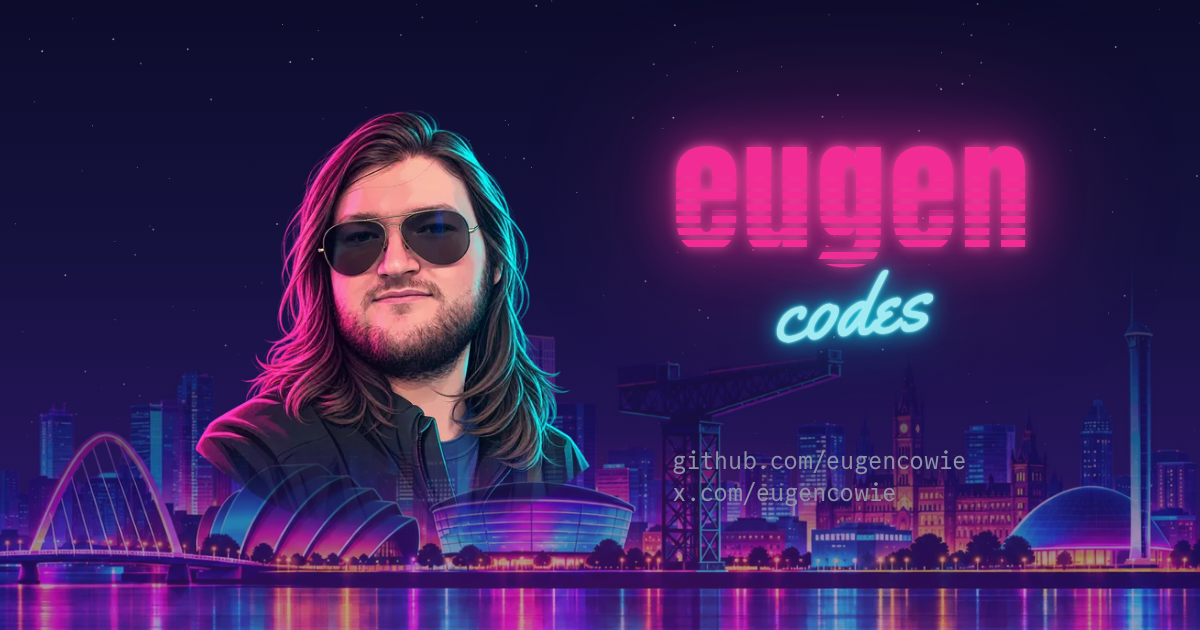
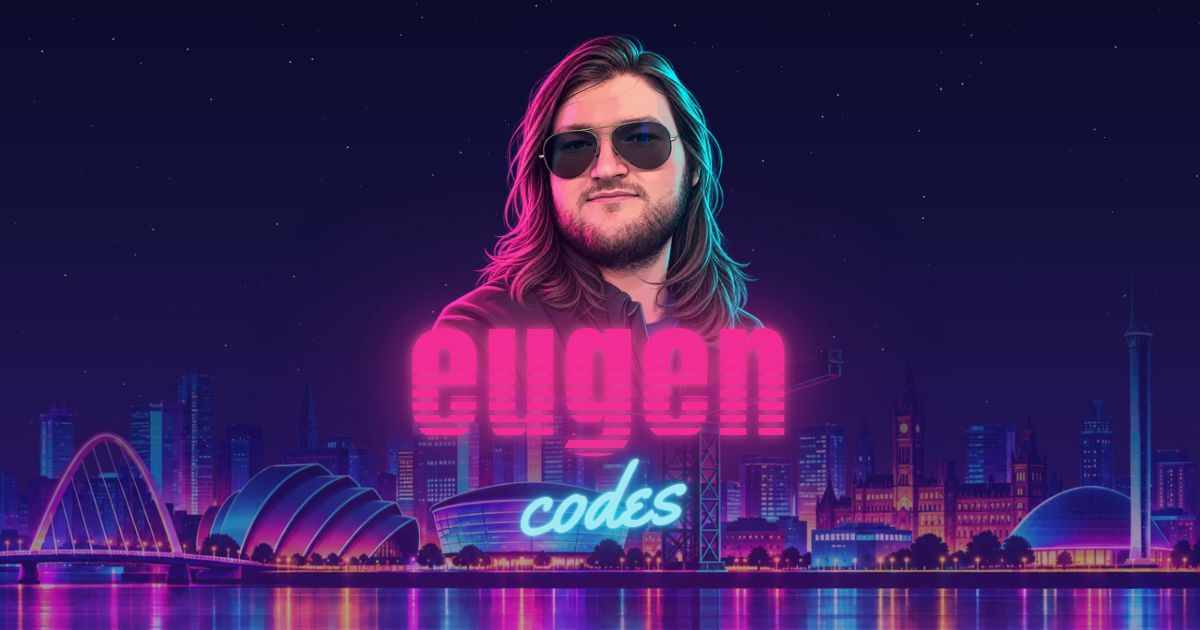
Centre the Identity alone on the Open Graph image
The Open Graph image showed the Avatar beside the Wordmark with the
Social Links as small text on the rooftops, unreadable at preview size
and split in half by square crops. It now shows the same composition as
the home page: the Avatar with the Wordmark beneath it, centred, with no
links.

That composition is extracted from the Hero into an Identity component
that takes the Avatar's width, so the page and the image cannot drift.
The Wordmark's text moves to site.ts so the sharing alt text and the
screen-reader label share one source.

diff --git a/src/site.ts b/src/site.ts
@@ -1,18 +1,17 @@
-/** Site-wide copy: the title, the Description, and the Social Links. */
+/** Site-wide copy: the title, the Wordmark's text, the Description, and the Social Links. */
 export const title = "eugen";
+
+export const wordmark = "eugen.codes";
 
 export const description = "Personal website of eugen, who codes.";
 
-/** `label` is the link text on the home page; `printLabel` is the plain text in the Open Graph image. */
 export const socialLinks = [
   {
     label: "github",
-    printLabel: "github.com/eugencowie",
     url: "https://github.com/eugencowie",
   },
   {
     label: "twitter",
-    printLabel: "x.com/eugencowie",
     url: "https://x.com/eugencowie",
   },
 ] as const;

diff --git a/tests/e2e/index.test.ts b/tests/e2e/index.test.ts
@@ -27,7 +27,7 @@ describe("Index", () => {
       [
         'meta[property="og:image:alt"]',
         "content",
-        "Illustrated portrait of eugen in front of a neon skyline at night, beside social links: github.com/eugencowie and x.com/eugencowie",
+        "Illustrated portrait of eugen above the eugen.codes wordmark, in front of a neon skyline at night",
       ],
       ['meta[property="og:image:width"]', "content", "1200"],
       ['meta[property="og:image:height"]', "content", "630"],

diff --git a/src/layouts/MainLayout.test.ts b/src/layouts/MainLayout.test.ts
@@ -17,7 +17,7 @@ describe("MainLayout", () => {
 
   it("describes the site-wide Open Graph image", async () => {
     expect(await render()).toContain(
-      '<meta property="og:image:alt" content="Illustrated portrait of Astro in front of a neon skyline at night, beside social links: github.com/eugencowie and x.com/eugencowie">',
+      '<meta property="og:image:alt" content="Illustrated portrait of Astro above the eugen.codes wordmark, in front of a neon skyline at night">',
     );
   });
 

diff --git a/docs/context.md b/docs/context.md
@@ -17,19 +17,23 @@ The `eugen` / `codes` lockup as a neon sign: `eugen` in heavy magenta block lett
 _Avoid_: logo, title, brand
 
 **Social Links**:
-The line beneath the Wordmark pointing to where Eugen is elsewhere. Links on the home page, plain text in the Open Graph image.
+The line of links beneath the Identity on the home page pointing to where Eugen is elsewhere.
 _Avoid_: tagline, socials, profiles, subtitle
 
 **Description**:
 The one-sentence summary used for search results and link previews.
 _Avoid_: tagline, bio, summary
 
+**Identity**:
+The Avatar with the Wordmark beneath it, the Avatar clipped at the Wordmark's baseline so `eugen` sits directly under the portrait. The one composition the site is recognised by, sized by the Avatar's width.
+_Avoid_: lockup (that is the Wordmark alone), stack, hero (that adds the Social Links)
+
 **Hero**:
-The home page header composing the Avatar, the Wordmark, and the Social Links, with the Avatar clipped at the Wordmark's baseline.
+The home page header composing the Identity and the Social Links, sized to fit on one screen at any viewport.
 _Avoid_: banner, header, masthead
 
 **Open Graph image**:
-The single site-wide picture shown when a link to the site is previewed elsewhere. One image for every page, composed from the Avatar, the Wordmark, and the Social Links over the Sky and Skyline.
+The single site-wide picture shown when a link to the site is previewed elsewhere. One image for every page: the Identity over the Sky and Skyline, centred and lifted a touch so `codes` clears the rooftops.
 _Avoid_: social image, share card, OG card, og image
 
 **Skyline**:

diff --git a/docs/architecture/0001-render-open-graph-image-from-the-site.md b/docs/architecture/0001-render-open-graph-image-from-the-site.md
@@ -4,5 +4,5 @@ The Open Graph image must show the real Wordmark in the real fonts with the same
 
 ## Consequences
 
-- Changing the Wordmark, Social Links, Sky, Skyline, or palette requires re-running `mise run build:assets` and committing the regenerated assets.
+- Changing the Identity (Avatar or Wordmark), Sky, Skyline, or palette requires re-running `mise run build:assets` and committing the regenerated assets.
 - The script depends on Playwright's bundled Chromium being installed, which the e2e suite already requires.
